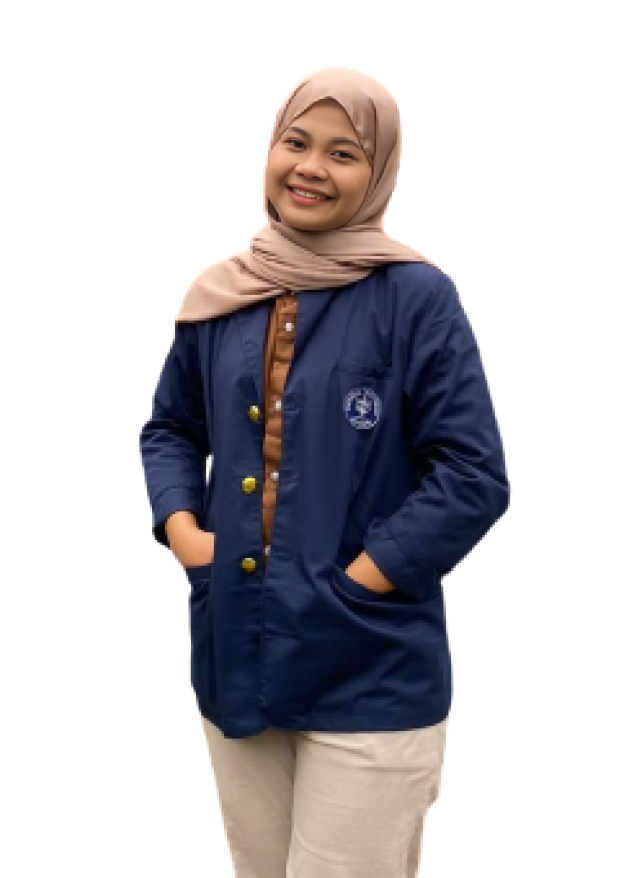
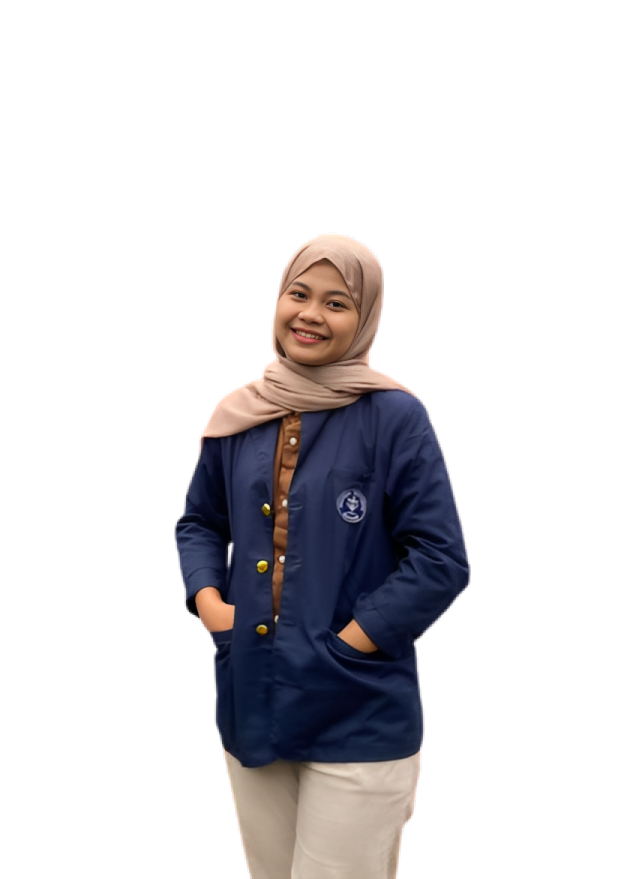
third change

Changed region(s): [[0.2081, 0.0615, 0.8028, 1.0]]

diff --git a/index.html b/index.html
@@ -155,7 +155,7 @@
 
         <div class="row justify-content-center">
           <div class="col-lg-8">
-            <img src="images/foto1.png" alt="" class="img-fluid" />
+            <img src="images/poto.png" alt="" class="img-fluid" />
           </div>
         </div>
       </div>
@@ -198,7 +198,7 @@
             <div class="col-lg-6 position-relative">
               <div class="image-round"></div>
               <div class="about-image p-4 pb-0">
-                <img src="images/poto.png" alt="" class="img-fluid" />
+                <img src="images/poto3.png" alt="" class="img-fluid" />
               </div>
             </div>
 
